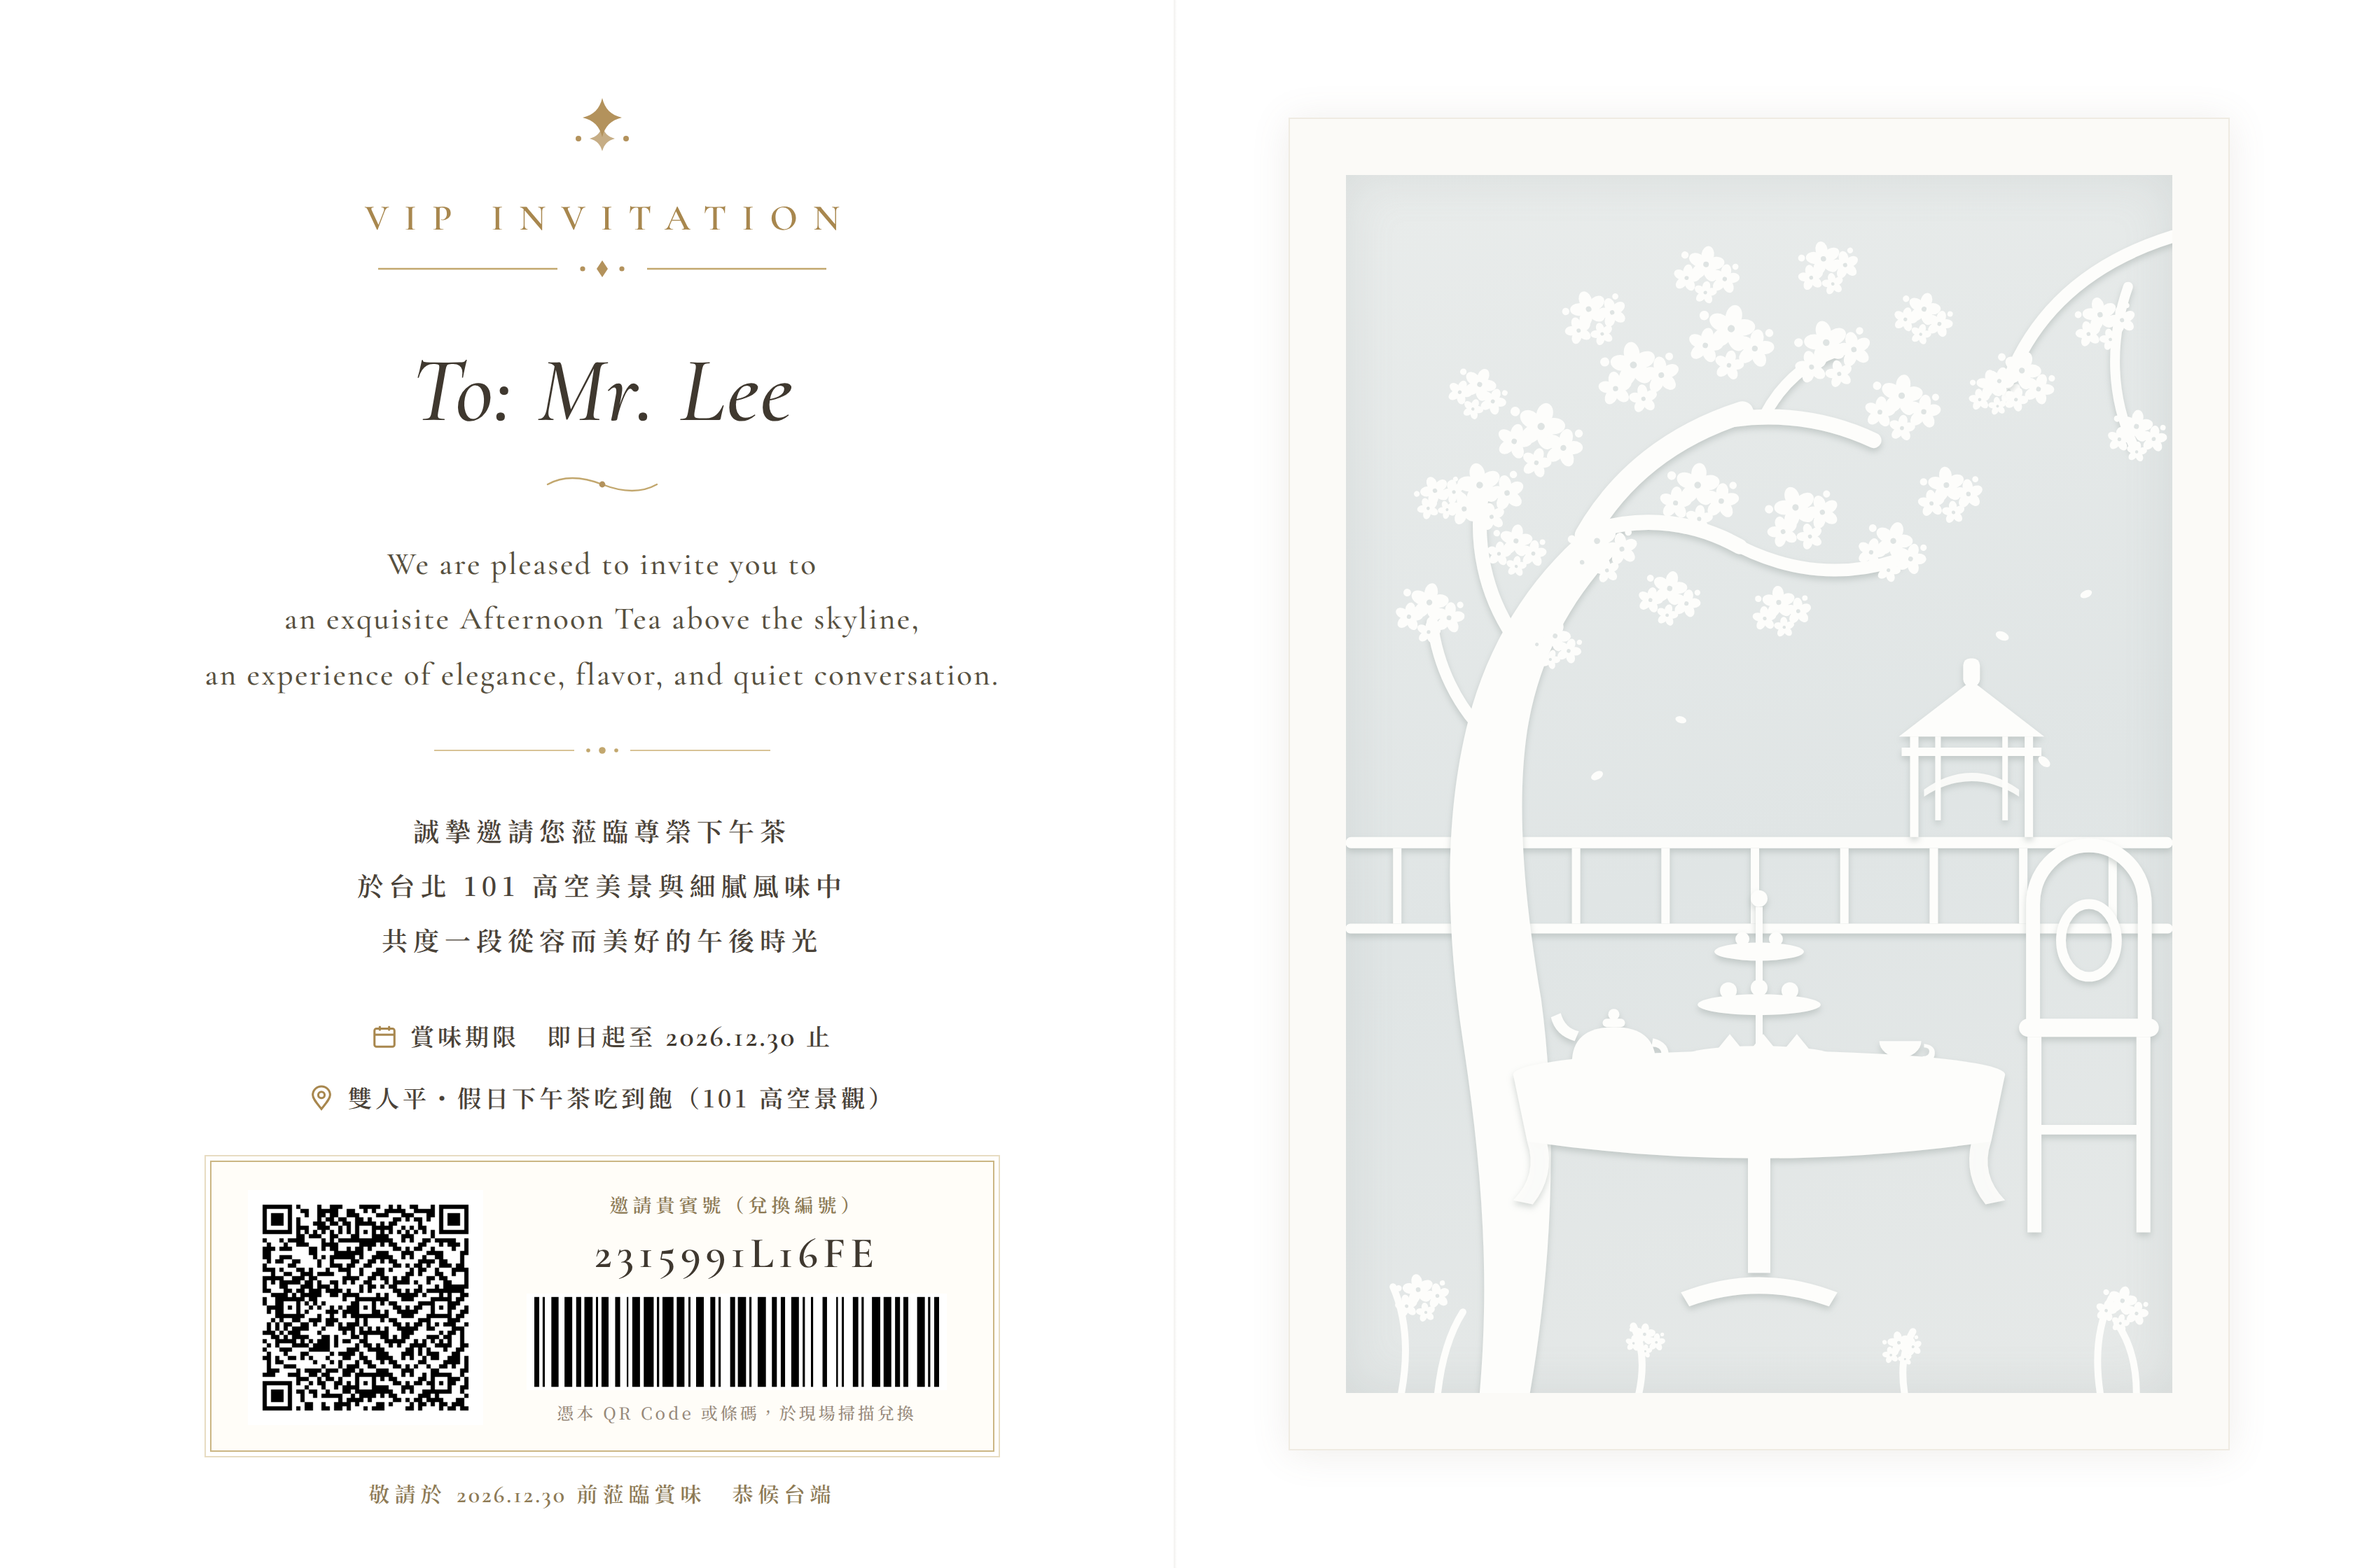
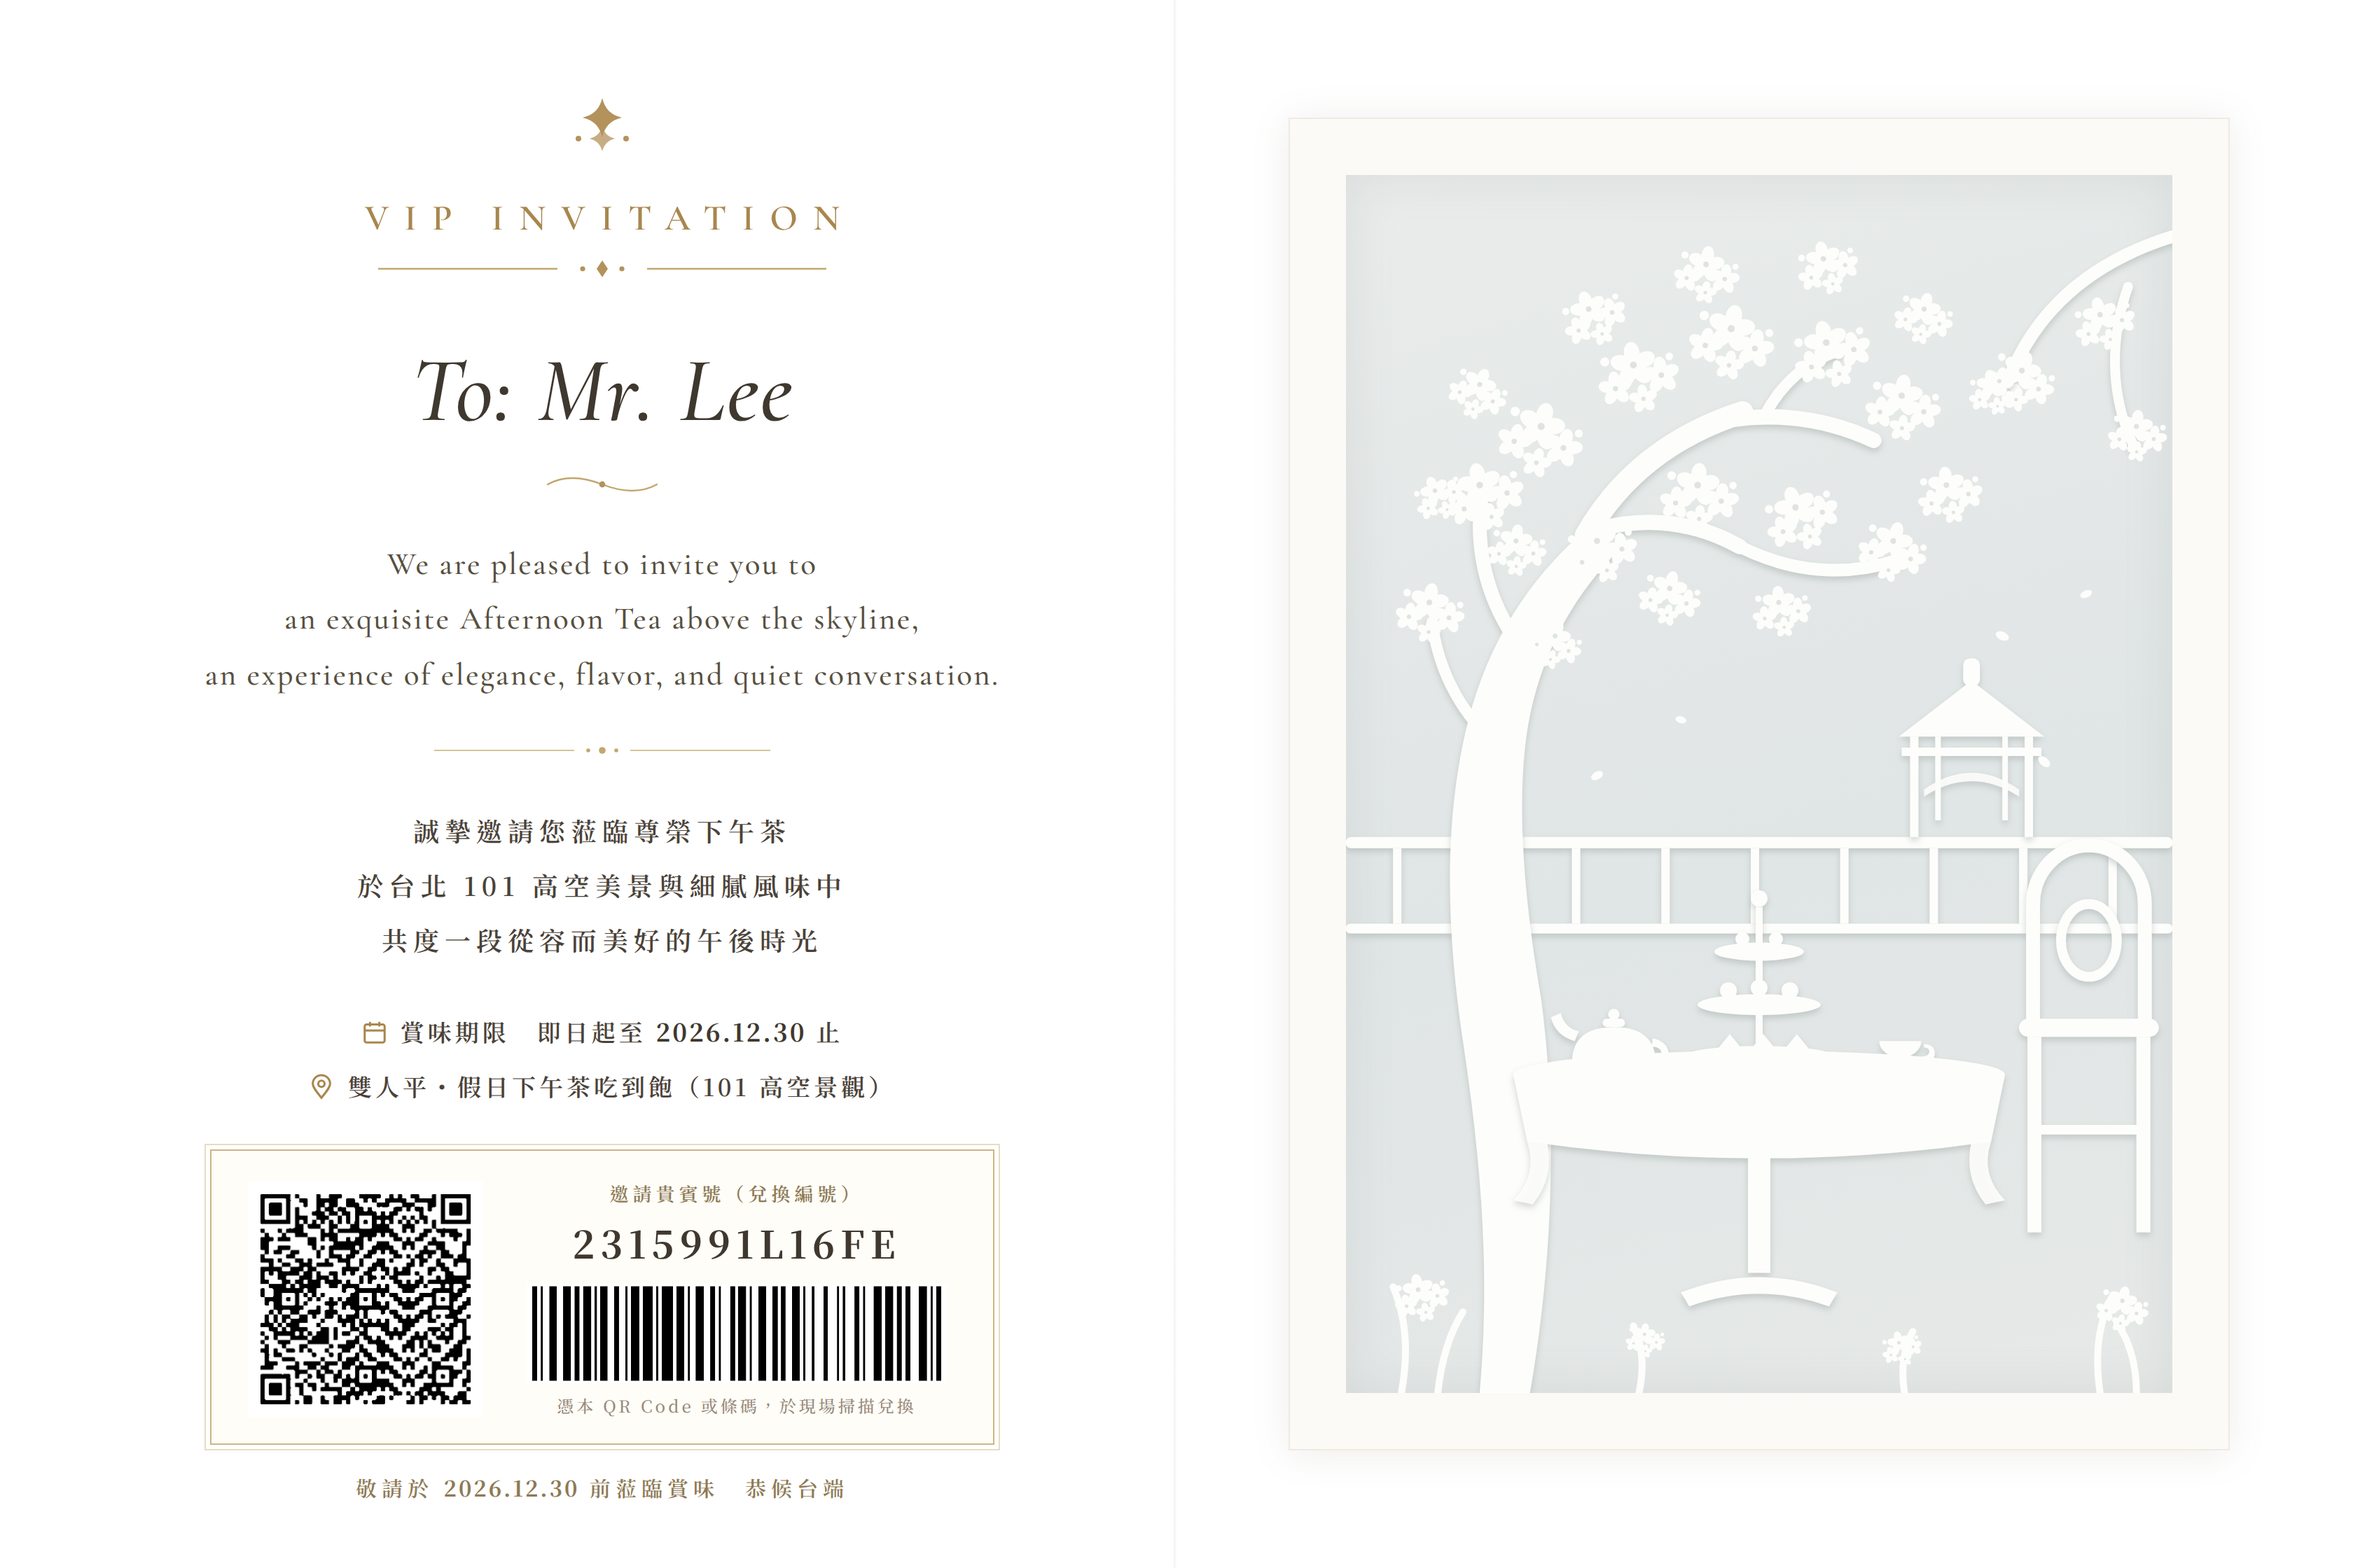
fix: 兌換編號改用等高數字並升級高解析 QR/條碼
Cormorant 舊式數字使兌換編號 2315991L16FE 的「1」易誤讀為「I」，
編號與日期改用 Noto Serif TC 等高數字；QR Code 與 Code128 條碼
改自更高解析度的票券截圖重新裁切（QR 401px、條碼 1005px 來源）。

Claude-Session: https://claude.ai/code/session_01NNmRcGs9shE3EvrfP2UcFP

Changed region(s): [[0.0938, 0.6562, 0.4062, 0.9688]]

diff --git a/design/vip-invitation/invitation2.html b/design/vip-invitation/invitation2.html
@@ -83,9 +83,9 @@
     margin-bottom: 26px;
   }
   .info-block .num {
-    font-family: 'Cormorant Garamond', serif;
-    font-weight: 600;
-    font-size: 21px;
+    font-family: 'Noto Serif TC', serif;
+    font-weight: 700;
+    font-size: 17.5px;
     letter-spacing: 1.5px;
     color: #3f382f;
   }
@@ -115,10 +115,10 @@
     margin-bottom: 6px;
   }
   .redeem .r-no {
-    font-family: 'Cormorant Garamond', serif;
-    font-weight: 600;
-    font-size: 31px;
-    letter-spacing: 3.5px;
+    font-family: 'Noto Serif TC', serif;
+    font-weight: 700;
+    font-size: 27px;
+    letter-spacing: 4px;
     color: #3f382f;
     margin-bottom: 10px;
   }
@@ -138,7 +138,7 @@
     letter-spacing: 3.5px;
     color: #8d7a55;
   }
-  .footer-note .en { font-family: 'Cormorant Garamond', serif; font-weight: 600; letter-spacing: 1.5px; font-size: 17px; }
+  .footer-note .en { font-family: 'Noto Serif TC', serif; font-weight: 700; letter-spacing: 1.5px; font-size: 15.5px; }
 
   .fold {
     position: absolute;
@@ -231,11 +231,11 @@
     </div>
 
     <div class="redeem">
[2 lines of base64/hex data omitted]
       <div class="r-right">
         <div class="r-label">邀請貴賓號（兌換編號）</div>
         <div class="r-no">2315991L16FE</div>
[2 lines of base64/hex data omitted]
         <div class="r-note">憑本 QR Code 或條碼，於現場掃描兌換</div>
       </div>
     </div>
